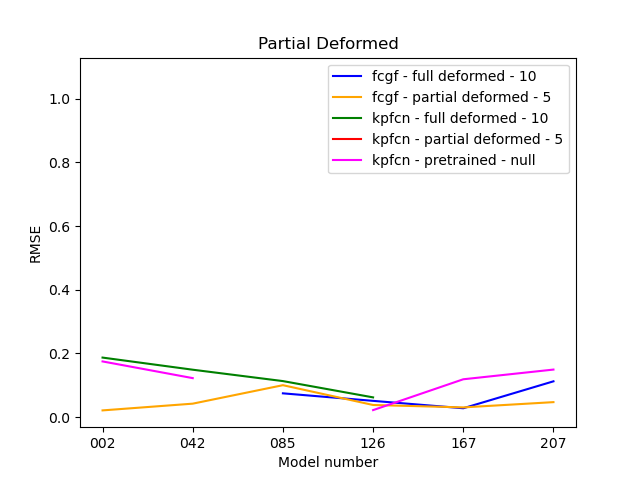
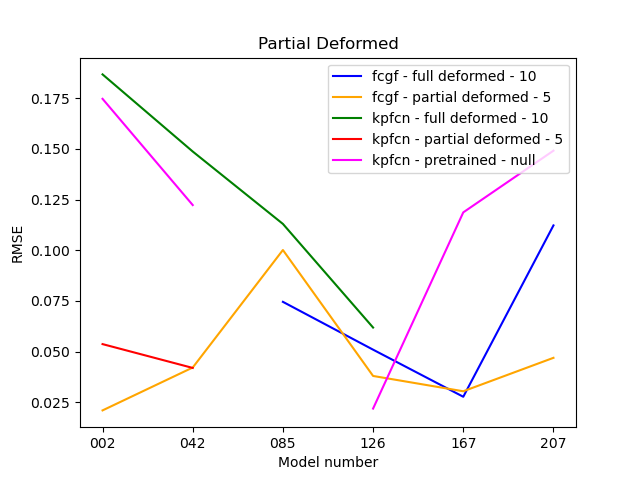
changing the confidence threshold

diff --git a/Testing/current_deformation/aggregate_data_all_weights_per_datatype.py b/Testing/current_deformation/aggregate_data_all_weights_per_datatype.py
@@ -35,17 +35,46 @@ model_search = re.compile(r'model (\d+)')
 # knn_matching = 'True'
 knn_matching = 'False'
 
+confidence_thresholds = {
+    'full_deformed' : {
+        'pretrained' : '0.1',
+        'other' : '1e-06'
+    },
+    'full_non_deformed' : {
+        'pretrained' : '0.1',
+        'other' : '1e-06'
+    },
+    'partial_deformed' : {
+        'pretrained' : None, 
+        'other' : None
+    },
+    'partial_non_deformed' : {
+        'pretrained' : None,
+        'other' : None
+    },
+}
+
 def get_data(data_type, feature_extractor, training_data_type, custom = False):
     if data_type == 'full_deformed' or data_type == 'partial_deformed':
         deformed = True
     else:
         deformed = False
 
+    if training_data_type == 'pretrained':
+        conf_type='pretrained'
+    else:
+        conf_type='other'
+
+    if confidence_thresholds[data_type][conf_type] is not None:
+        conf_text = '_conf_' + confidence_thresholds[data_type][conf_type]
+    else:
+        conf_text = ''
+
     epoch = str(weights[feature_extractor][training_data_type])
     if custom is False:
-        file_path = "Testing/current_deformation/test_astrivis_" + data_type + "_current_deformation_pre_" + preprocessing_normal + "_" + feature_extractor + "_td_" + training_data_type + "_e_" + epoch + "_knn_" + knn_matching + ".txt"
+        file_path = "Testing/current_deformation/test_astrivis_" + data_type + "_current_deformation_pre_" + preprocessing_normal + "_" + feature_extractor + "_td_" + training_data_type + "_e_" + epoch + "_knn_" + knn_matching + conf_text + ".txt"
     else:
-        file_path = "Testing/current_deformation/test_astrivis_" + data_type + "_current_deformation_pre_" + preprocessing_normal + "_" + feature_extractor + "_td_" + training_data_type + "_e_" + epoch + "_custom_adm_" + str(adm) + "_knn_" + knn_matching + ".txt"
+        file_path = "Testing/current_deformation/test_astrivis_" + data_type + "_current_deformation_pre_" + preprocessing_normal + "_" + feature_extractor + "_td_" + training_data_type + "_e_" + epoch + "_custom_adm_" + str(adm) + "_knn_" + knn_matching + conf_text + ".txt"
     
     file = open(file_path, 'r')
     lines = file.readlines()
